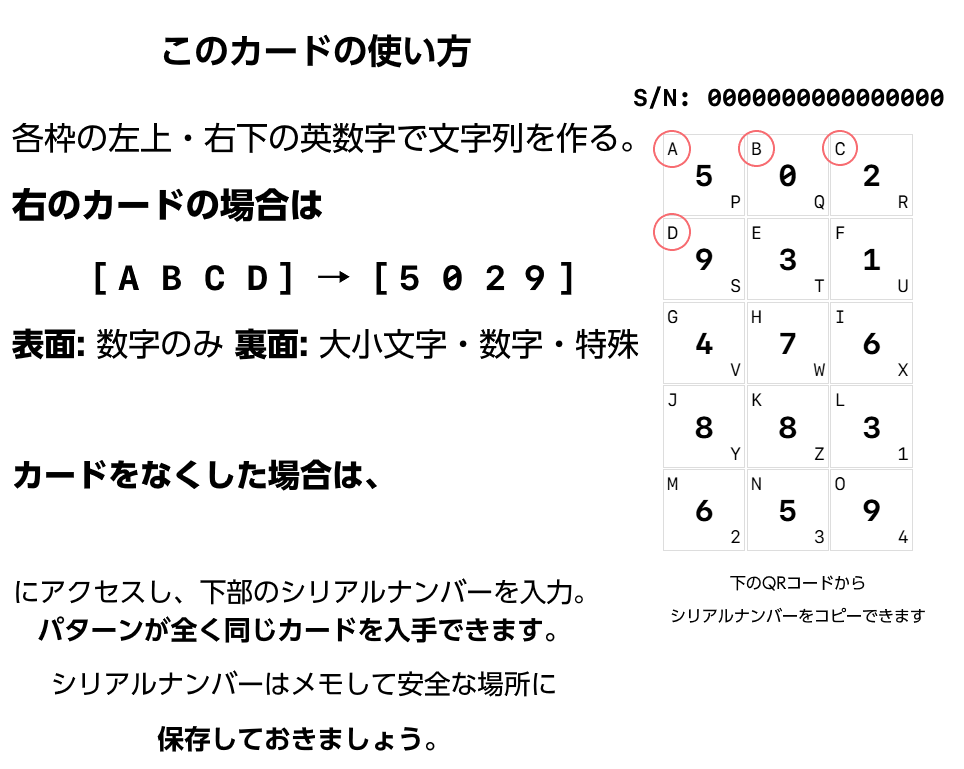
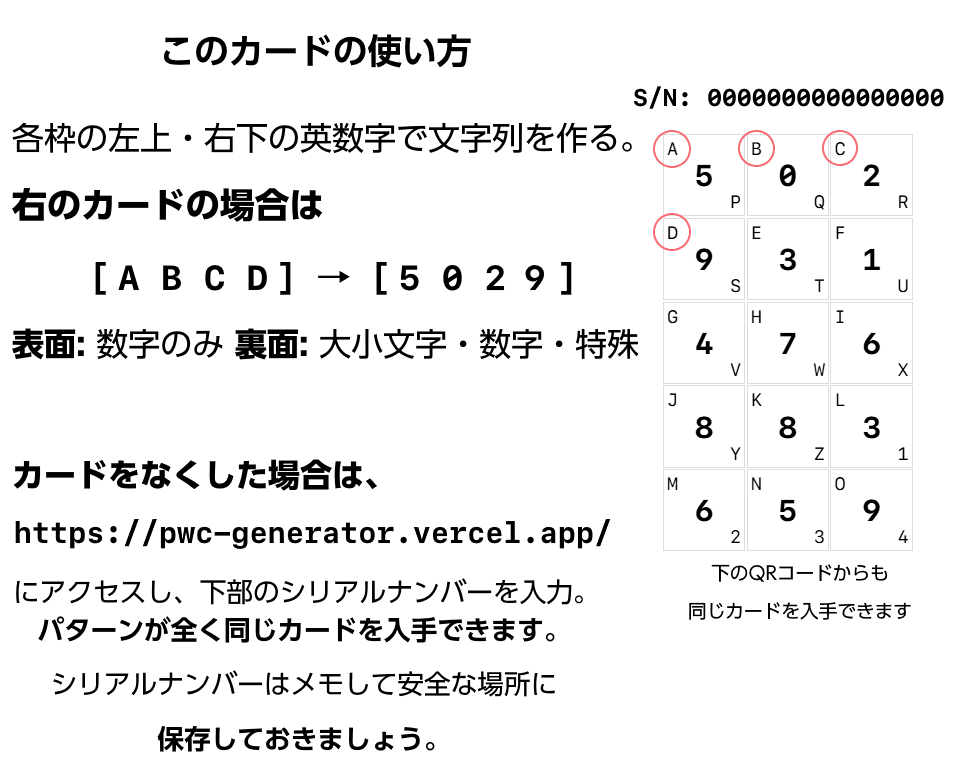
Change

Changed region(s): [[0.6846, 0.7178, 0.9647, 0.8114], [0.0, 0.6866, 0.6224, 0.7178]]

diff --git a/script.js b/script.js
@@ -1,4 +1,4 @@
-// seedrandomの初期化
+// seedrandomの初期化を直接行う
 (function(global, module, define) {
     function Alea(seed) {
         var s0 = 0, s1 = 0, s2 = 0, c = 1;
@@ -163,8 +163,9 @@ function generateCard() {
     const qrCodeDiv = document.querySelector('.qr-code');
     qrCodeDiv.innerHTML = '';
     if (typeof QRCode !== 'undefined') {
+        // QRコードのURLをhttps://pwc-generator.vercel.app/?seed=[シリアルナンバー]に変更
         new QRCode(qrCodeDiv, {
-            text: seed,
+            text: `https://pwc-generator.vercel.app/?seed=${seed}`,
             width: 80,
             height: 80,
             colorDark: "#000000",
